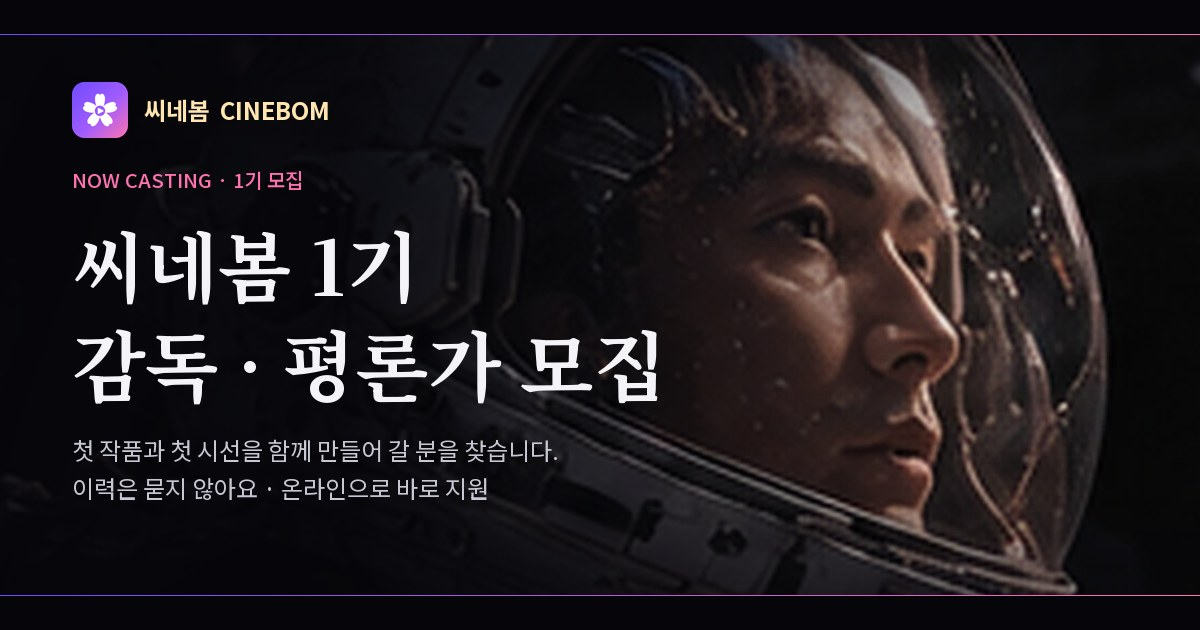
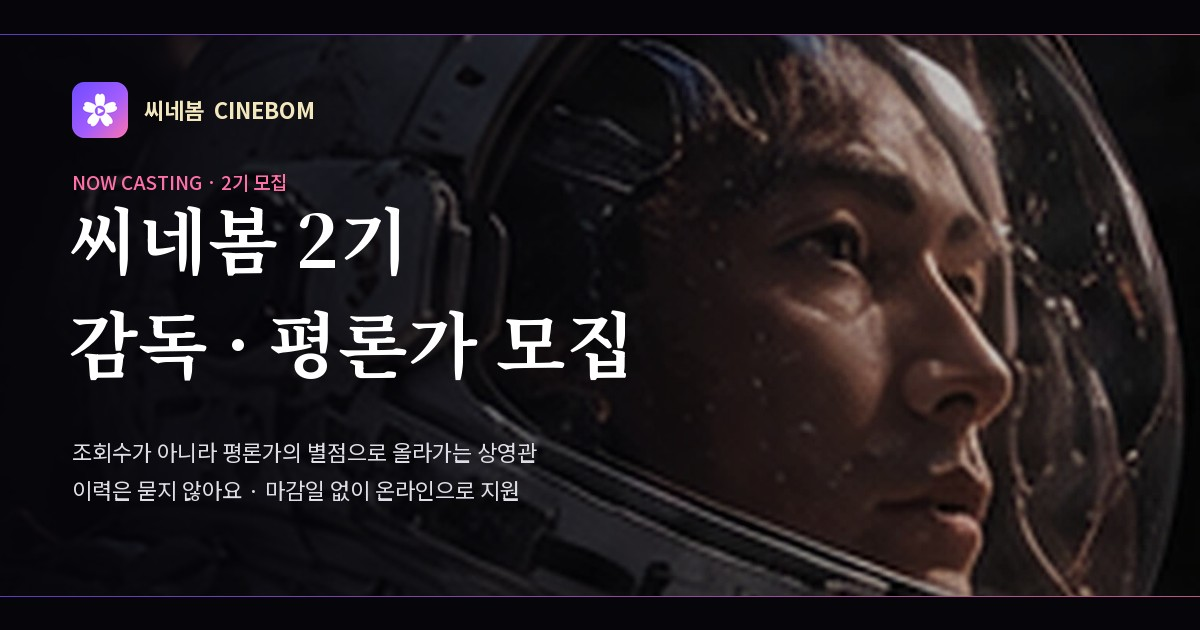
링크 미리보기 이미지를 2기 모집으로 교체

diff --git a/index.html b/index.html
@@ -15,7 +15,7 @@
   <meta property="og:url" content="https://seojihan.github.io/cinebom-recruit/">
   <meta property="og:title" content="씨네봄 2기 감독 · 평론가 모집">
   <meta property="og:description" content="감독은 작품의 완성도로 올라가고, 평론가는 평론으로 보수를 받습니다. 2기 감독·평론가를 모집해요. 이력은 묻지 않아요.">
-  <meta property="og:image" content="https://seojihan.github.io/cinebom-recruit/assets/og.jpg">
+  <meta property="og:image" content="https://seojihan.github.io/cinebom-recruit/assets/og.jpg?v=2">
   <meta property="og:image:width" content="1200">
   <meta property="og:image:height" content="630">
   <meta property="og:image:alt" content="씨네봄 2기 감독 · 평론가 모집 안내와 씨네봄 서비스 화면">

diff --git a/critic.html b/critic.html
@@ -15,7 +15,7 @@
   <meta property="og:url" content="https://seojihan.github.io/cinebom-recruit/critic.html">
   <meta property="og:title" content="씨네봄 2기 평론가 지원서">
   <meta property="og:description" content="영화 《원스》와 시리즈 《도깨비》의 별점 · 한 줄 평 · 평론으로 지원하세요. 경력이나 자격은 묻지 않아요.">
-  <meta property="og:image" content="https://seojihan.github.io/cinebom-recruit/assets/og.jpg">
+  <meta property="og:image" content="https://seojihan.github.io/cinebom-recruit/assets/og.jpg?v=2">
   <meta property="og:image:width" content="1200">
   <meta property="og:image:height" content="630">
   <meta property="og:image:alt" content="씨네봄 2기 감독 · 평론가 모집 안내와 씨네봄 서비스 화면">

diff --git a/director.html b/director.html
@@ -15,7 +15,7 @@
   <meta property="og:url" content="https://seojihan.github.io/cinebom-recruit/director.html">
   <meta property="og:title" content="씨네봄 2기 감독 지원서">
   <meta property="og:description" content="앞으로 만들 이야기와 직접 만든 1분 이내 예고편으로 지원하세요. 이력은 묻지 않아요.">
-  <meta property="og:image" content="https://seojihan.github.io/cinebom-recruit/assets/og.jpg">
+  <meta property="og:image" content="https://seojihan.github.io/cinebom-recruit/assets/og.jpg?v=2">
   <meta property="og:image:width" content="1200">
   <meta property="og:image:height" content="630">
   <meta property="og:image:alt" content="씨네봄 2기 감독 · 평론가 모집 안내와 씨네봄 서비스 화면">
